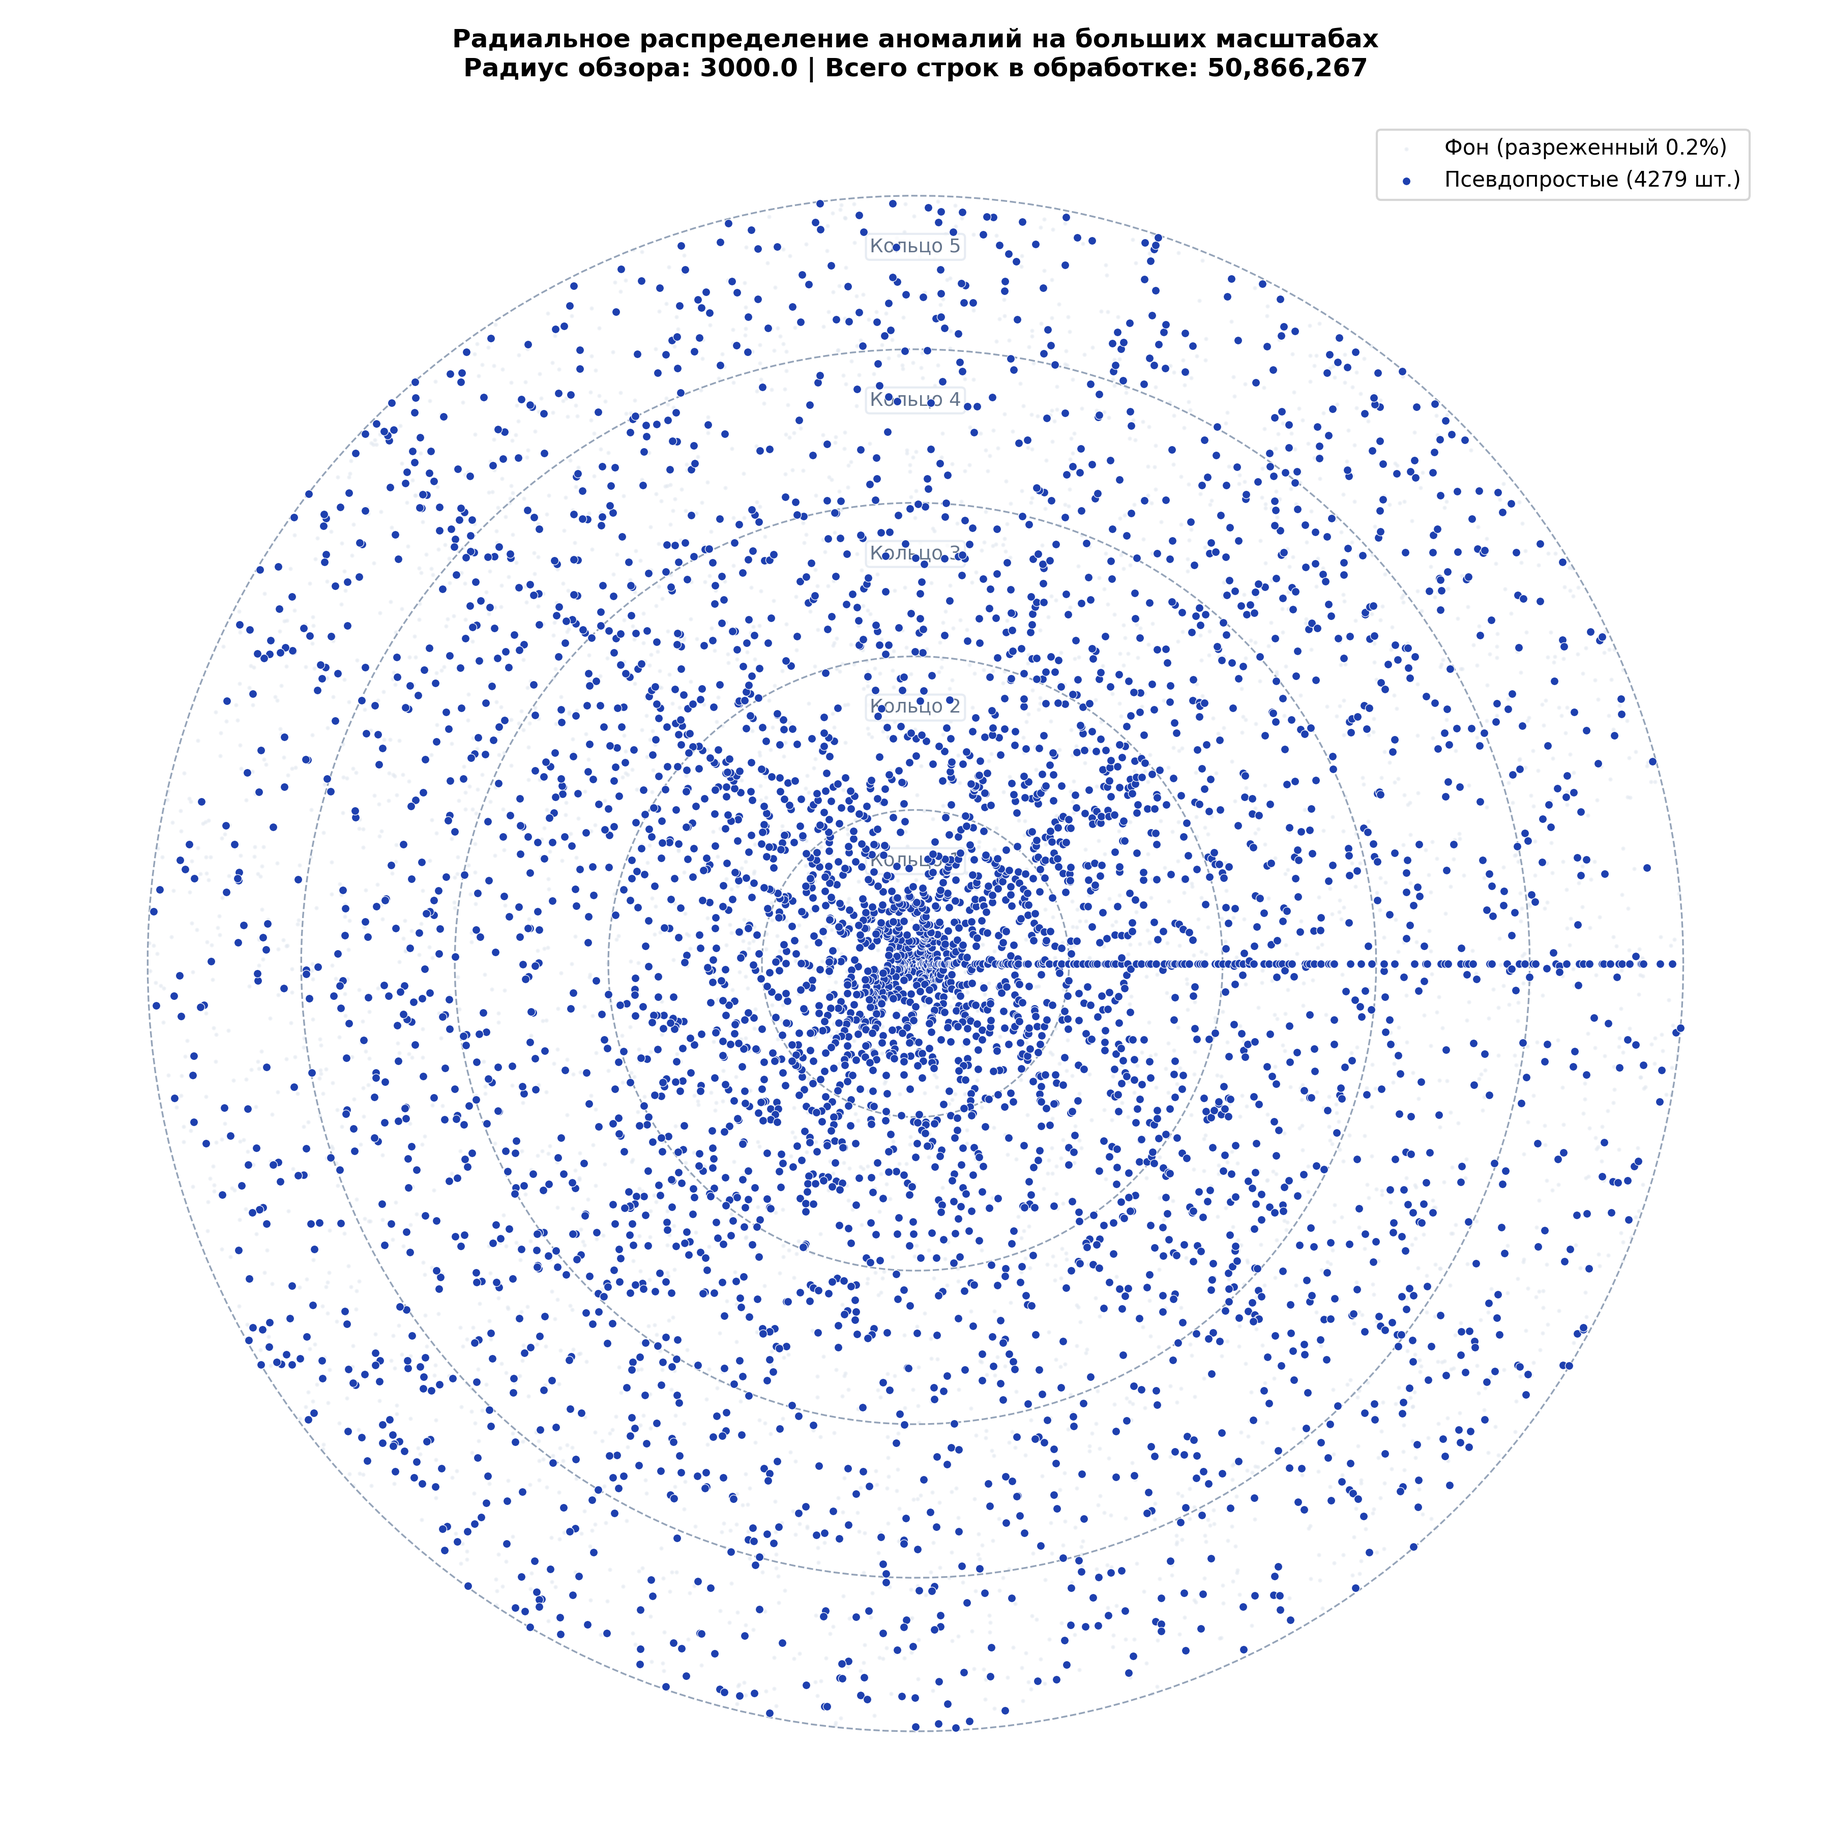
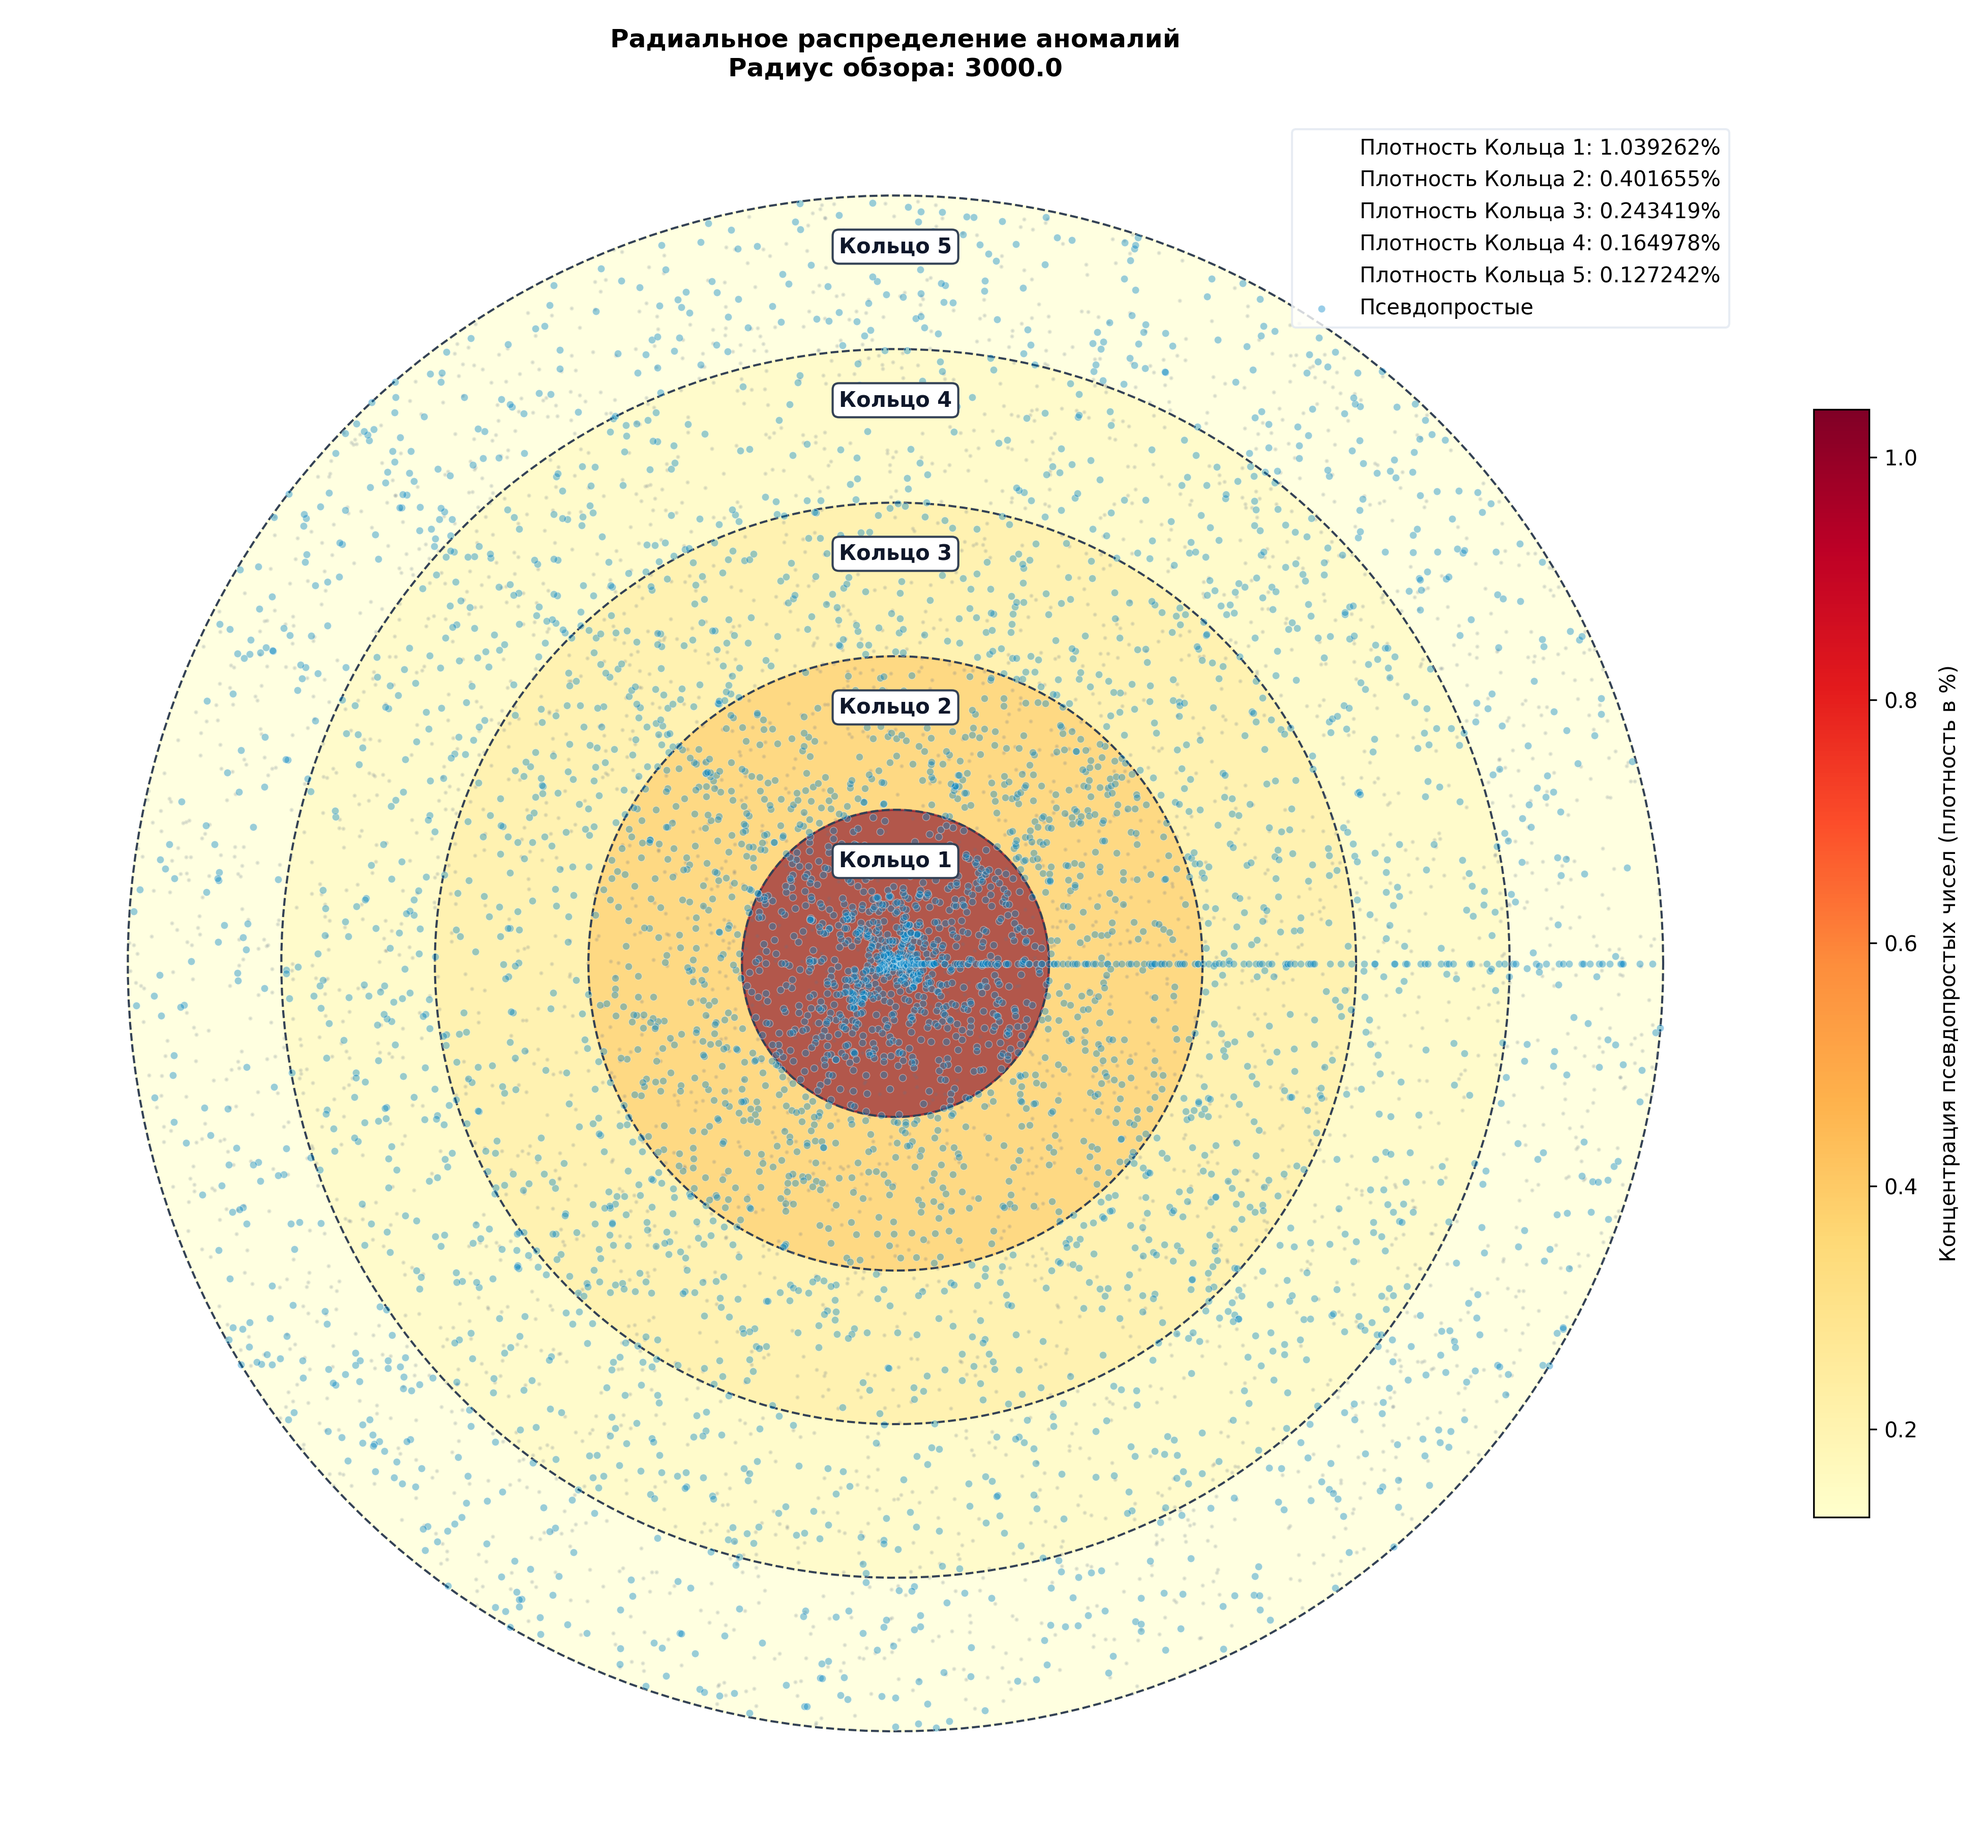
redesigned radial charts

diff --git a/src/radius_billion.py b/src/radius_billion.py
@@ -3,7 +3,8 @@ import zipfile
 import pandas as pd
 import numpy as np
 import matplotlib.pyplot as plt
-
+import matplotlib.cm as cm
+import matplotlib.colors as colors
 
 # 1. Ищем zip-архив нашего миллиарда и настраиваем масштаб
 
@@ -11,10 +12,10 @@ data_dir = 'data'
 zip_files = [f for f in os.listdir(data_dir) if f.endswith('.zip')]
 
 zip_path = os.path.join(data_dir, zip_files[0])
-print(f"📦 Работаем с архивом: {zip_path}")
+print(f"Работаем с архивом: {zip_path}")
 
 # Разные радиусы берем
-MAX_RADIUS = 15000.0
+MAX_RADIUS = 10000.0
 ring_radii = np.linspace(0, MAX_RADIUS, 6)[1:]
 
 # Структуры для сбора статистики
@@ -27,7 +28,7 @@ pseudo_x, pseudo_y = [], [] # Для всех псевдопростых
 
 # 2. Обработка потока: делим на чанки (группки) числа и постепенно добавляем на график
 
-print(f"\n🚀 Анализ по радиусу {MAX_RADIUS}:")
+print(f"\nАнализ по радиусу {MAX_RADIUS}:")
 
 chunk_size = 10_000_000
 chunk_iterator = pd.read_csv(zip_path, chunksize=chunk_size, compression='zip')
@@ -44,7 +45,7 @@ for idx, chunk in enumerate(chunk_iterator):
     chunk_slice = chunk[chunk['radius'] <= MAX_RADIUS]
     
     if chunk_slice.empty:
-        print(f"📈 Прогресс: обработано строк {total_rows_processed:,} (вне радиуса)")
+        print(f"Прогресс: обработано строк {total_rows_processed:,} (вне радиуса)")
         continue
 
     # Отбираем точки для графика:
@@ -53,7 +54,7 @@ for idx, chunk in enumerate(chunk_iterator):
     pseudo_x.extend(pseudos['x'].tolist())
     pseudo_y.extend(pseudos['y'].tolist())
     
-    # Фон прореживаем: берем только 0.2% точек (каждую 500-ю), чтобы не взорвать Matplotlib
+    # Фон прореживаем: берем только 0.2% точек (каждую 500-ю)
     bg = chunk_slice[chunk_slice['is_pseudo'] == 0]
     if not bg.empty:
         bg_sampled = bg.sample(frac=0.002, random_state=42)
@@ -70,57 +71,112 @@ for idx, chunk in enumerate(chunk_iterator):
         
         prev_r = r
         
-    print(f"📈 Прогресс: обработано строк {total_rows_processed:,} | Найдено аномалий: {len(pseudo_x)}")
+    print(f"Прогресс: обработано строк {total_rows_processed:,} | Найдено аномалий: {len(pseudo_x)}")
 
 
+# Подготовка плотностей для графика и легенды
+densities = []
+prev_r = 0
+for ring_idx, r in enumerate(ring_radii):
+    total = ring_stats[ring_idx]['total']
+    pseudo = ring_stats[ring_idx]['pseudo']
+    pct = (pseudo / total * 100) if total > 0 else 0
+    densities.append(pct)
 
+# Настройка градиента цветов для колец (бубликов)
+# Чем выше плотность, тем ярче/насыщеннее цвет кольца (от бледно-голубого к глубокому синему)
+cmap = cm.Blues
+norm = colors.Normalize(vmin=min(densities) if min(densities) > 0 else 0.0001, vmax=max(densities))
 
 # 3. Строим график
 
-print("\n🎨 Рисуем масштабный график (это может занять около минуты)...")
-plt.figure(figsize=(12, 12), facecolor='white')
+print("\nРисуем масштабный график (это может занять около минуты)...")
+plt.figure(figsize=(13, 12), facecolor='white')
 ax = plt.subplot(111)
 
-# Рисуем прореженный фон
-ax.scatter(bg_x, bg_y, color='#e2e8f0', s=1, alpha=0.5, label='Фон (разреженный 0.2%)')
+# Делаем цвета жёстче: берём контрастную палитру YlOrRd
+cmap = cm.YlOrRd
 
-# Рисуем ВСЕ найденные на этом масштабе псевдопростые
-ax.scatter(pseudo_x, pseudo_y, color='#1e40af', s=15, marker='o', 
-           edgecolor='white', linewidth=0.3, zorder=5, label=f'Псевдопростые ({len(pseudo_x)} шт.)')
+# Задаём жёсткие границы строго от минимума до максимума текущих плотностей
+min_d = min(densities) if min(densities) > 0 else 1e-6
+max_d = max(densities) if max(densities) > min_d else min_d + 1e-5
+norm = colors.Normalize(vmin=min_d, vmax=max_d)
 
-# Чертим границы колец
+# Сортируем кольца по убыванию радиуса, чтобы круги правильно накладывались
+for i in range(len(ring_radii) - 1, -1, -1):
+    r = ring_radii[i]
+    ring_color = cmap(norm(densities[i]))
+    
+    # Делаем цвет жёстче и сочнее: alpha=0.6
+    circle_bg = plt.Circle((0, 0), r, color=ring_color, alpha=0.6, zorder=1)
+    ax.add_patch(circle_bg)
+
+# Отрисовка элементов поверх цветных бубликов
 theta = np.linspace(0, 2*np.pi, 200)
+prev_r = 0
 for i, r in enumerate(ring_radii):
-    ax.plot(r * np.cos(theta), r * np.sin(theta), color='#94a3b8', linestyle='--', linewidth=0.8)
-    ax.text(0, r - (MAX_RADIUS/15), f"Кольцо {i+1}", color='#64748b', fontsize=9, 
-            ha='center', va='center', bbox=dict(boxstyle='round,pad=0.2', facecolor='white', edgecolor='#e2e8f0', alpha=0.8))
+    # Пунктирные границы колец (тёмные для видимости на жёлтом/красном фоне)
+    ax.plot(r * np.cos(theta), r * np.sin(theta), color='#334155', linestyle='--', linewidth=1.0, zorder=2)
+    
+    # Текстовые метки "Кольцо X" — ТЕПЕРЬ СТОПРОЦЕНТНО ВИДИМЫЕ
+    # alpha=1.0 делает плашку полностью непрозрачной белой, перекрывая синие точки под ней
+    ax.text(0, r - (MAX_RADIUS/15), f"Кольцо {i+1}", color='#0f172a', fontsize=10, fontweight='bold',
+            ha='center', va='center', zorder=6,
+            bbox=dict(boxstyle='round,pad=0.3', facecolor='white', edgecolor='#334155', linewidth=1.0, alpha=1.0))
+    
+    # Фиктивная линия для вывода плотности в легенду
+    ax.plot([], [], color='none', label=f"Плотность Кольца {i+1}: {densities[i]:.6f}%")
+
+# Рисуем прореженный фон из обычных чисел (zorder=3)
+ax.scatter(bg_x, bg_y, color='#64748b', s=1, alpha=0.15, zorder=3)
+
+# Рисуем ВСЕ найденные псевдопростые точки (zorder=4)
+# Добавили alpha=0.4, чтобы они просвечивали и не забивали собой красный цвет центра
+ax.scatter(pseudo_x, pseudo_y, color='#0284c7', s=12, marker='o', 
+           edgecolor='white', linewidth=0.3, alpha=0.4, zorder=4, label='Псевдопростые')
 
 ax.set_aspect('equal')
 ax.axis('off')
-plt.title(f'Радиальное распределение аномалий на больших масштабах\nРадиус обзора: {MAX_RADIUS} | Всего строк в обработке: {total_rows_processed:,}', 
-          fontsize=12, fontweight='bold', pad=20)
-plt.legend(loc='upper right')
+
+# Управляем заголовком
+if total_rows_processed >= 1_000_000_000:
+    title_text = f'Радиальное распределение аномалий на больших масштабах\nРадиус обзора: {MAX_RADIUS}'
+else:
+    title_text = f'Радиальное распределение аномалий\nРадиус обзора: {MAX_RADIUS}'
+
+plt.title(title_text, fontsize=12, fontweight='bold', pad=20)
+
+# Добавляем боковую шкалу градиента (Colorbar) справа
+sm = cm.ScalarMappable(cmap=cmap, norm=norm)
+sm.set_array([])
+cbar = plt.colorbar(sm, ax=ax, fraction=0.03, pad=0.04)
+cbar.set_label('Концентрация псевдопростых чисел (плотность в %)', fontsize=10, labelpad=10)
+
+# Сначала создаем легенду без zorder
+leg = plt.legend(loc='upper right', frameon=True, facecolor='white', edgecolor='#e2e8f0')
+# А теперь принудительно закидываем её на самый верхний слой
+leg.set_zorder(7)
 plt.tight_layout()
 
 graph_name = f'billion_pseudoprimes_radial_R{int(MAX_RADIUS)}.png'
 plt.savefig(graph_name, dpi=300)
-print(f"✨ График успешно сохранен как '{graph_name}'")
-
+print(f"График успешно сохранен как '{graph_name}'")
 # 4. Выводим статистику
+
 print("\n" + "="*65)
-print("🏆 ИТОГОВАЯ СТАТИСТИКА ПО МАСШТАБИРОВАННЫМ КОЛЬЦАМ")
+print("ИТОГОВАЯ СТАТИСТИКА ПО МАСШТАБИРОВАННЫМ КОЛЬЦАМ")
 print("="*65)
 
 prev_r = 0
 for ring_idx, r in enumerate(ring_radii):
     total = ring_stats[ring_idx]['total']
     pseudo = ring_stats[ring_idx]['pseudo']
-    pct = (pseudo / total * 100) if total > 0 else 0
+    pct = densities[ring_idx]
     
     print(f"КОЛЬЦО {ring_idx+1} (Радиус: {prev_r:.1f} -> {r:.1f})")
     print(f"  Всего чисел в кольце: {total:,} шт.")
-    print(f"  └──🔹 ПСЕВДОПРОСТЫЕ:       {pseudo:,} шт.")
-    print(f"      👉 Плотность аномалий: {pct:.6f}%")
+    print(f"  └── ПСЕВДОПРОСТЫЕ:       {pseudo:,} шт.")
+    print(f"      Плотность аномалий: {pct:.6f}%")
     print("-" * 65)
     
     prev_r = r
